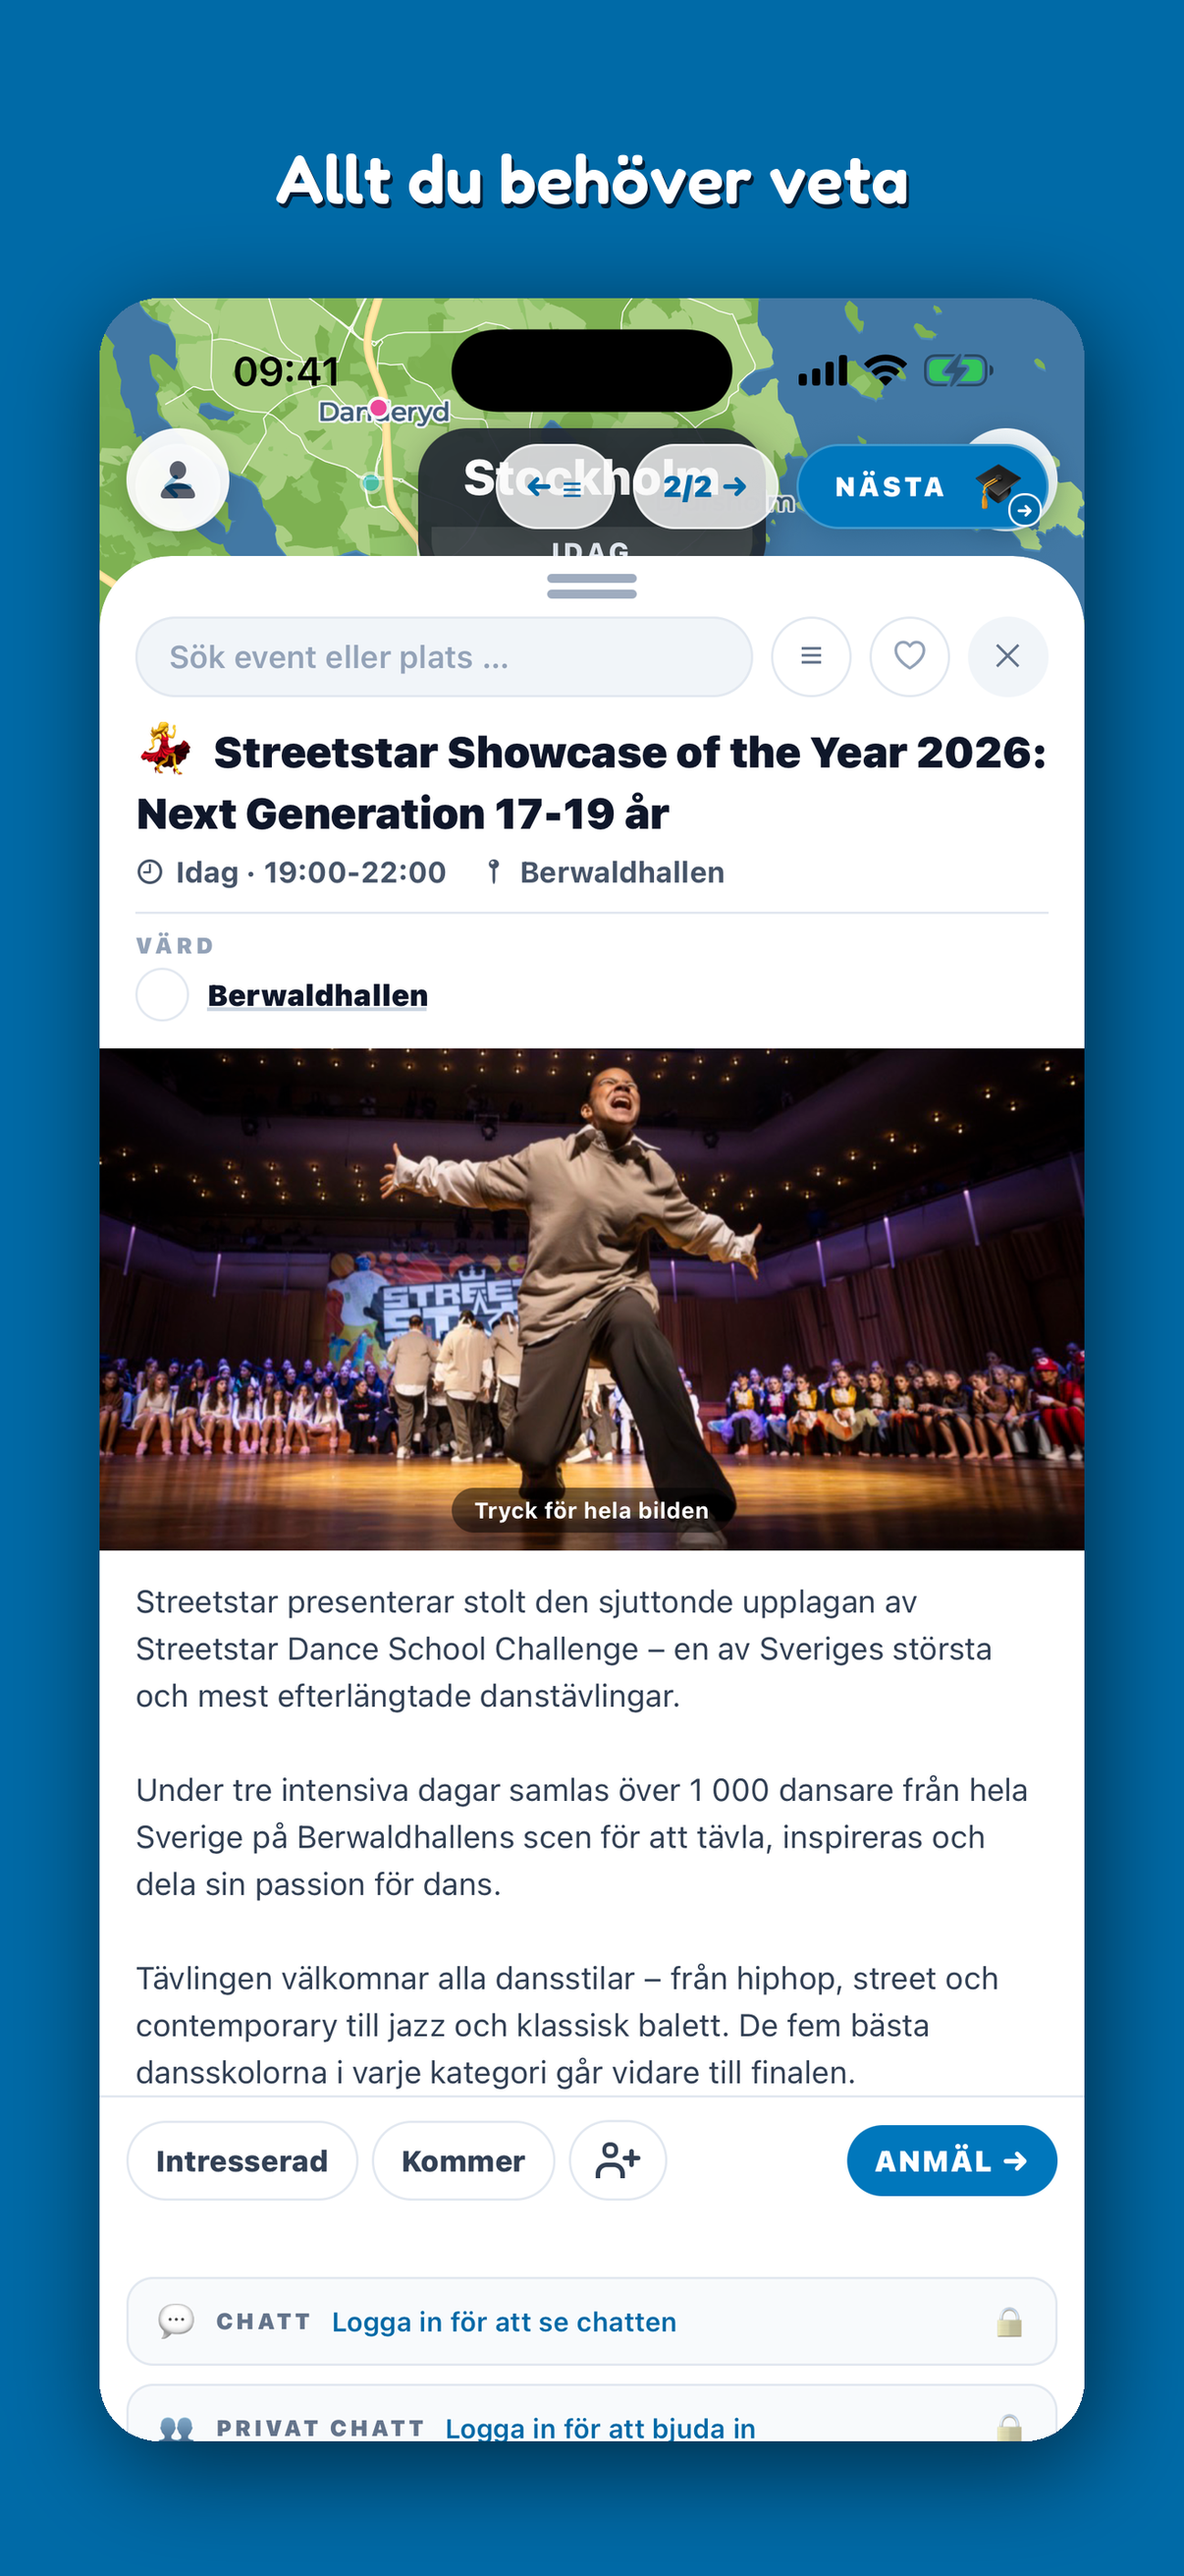
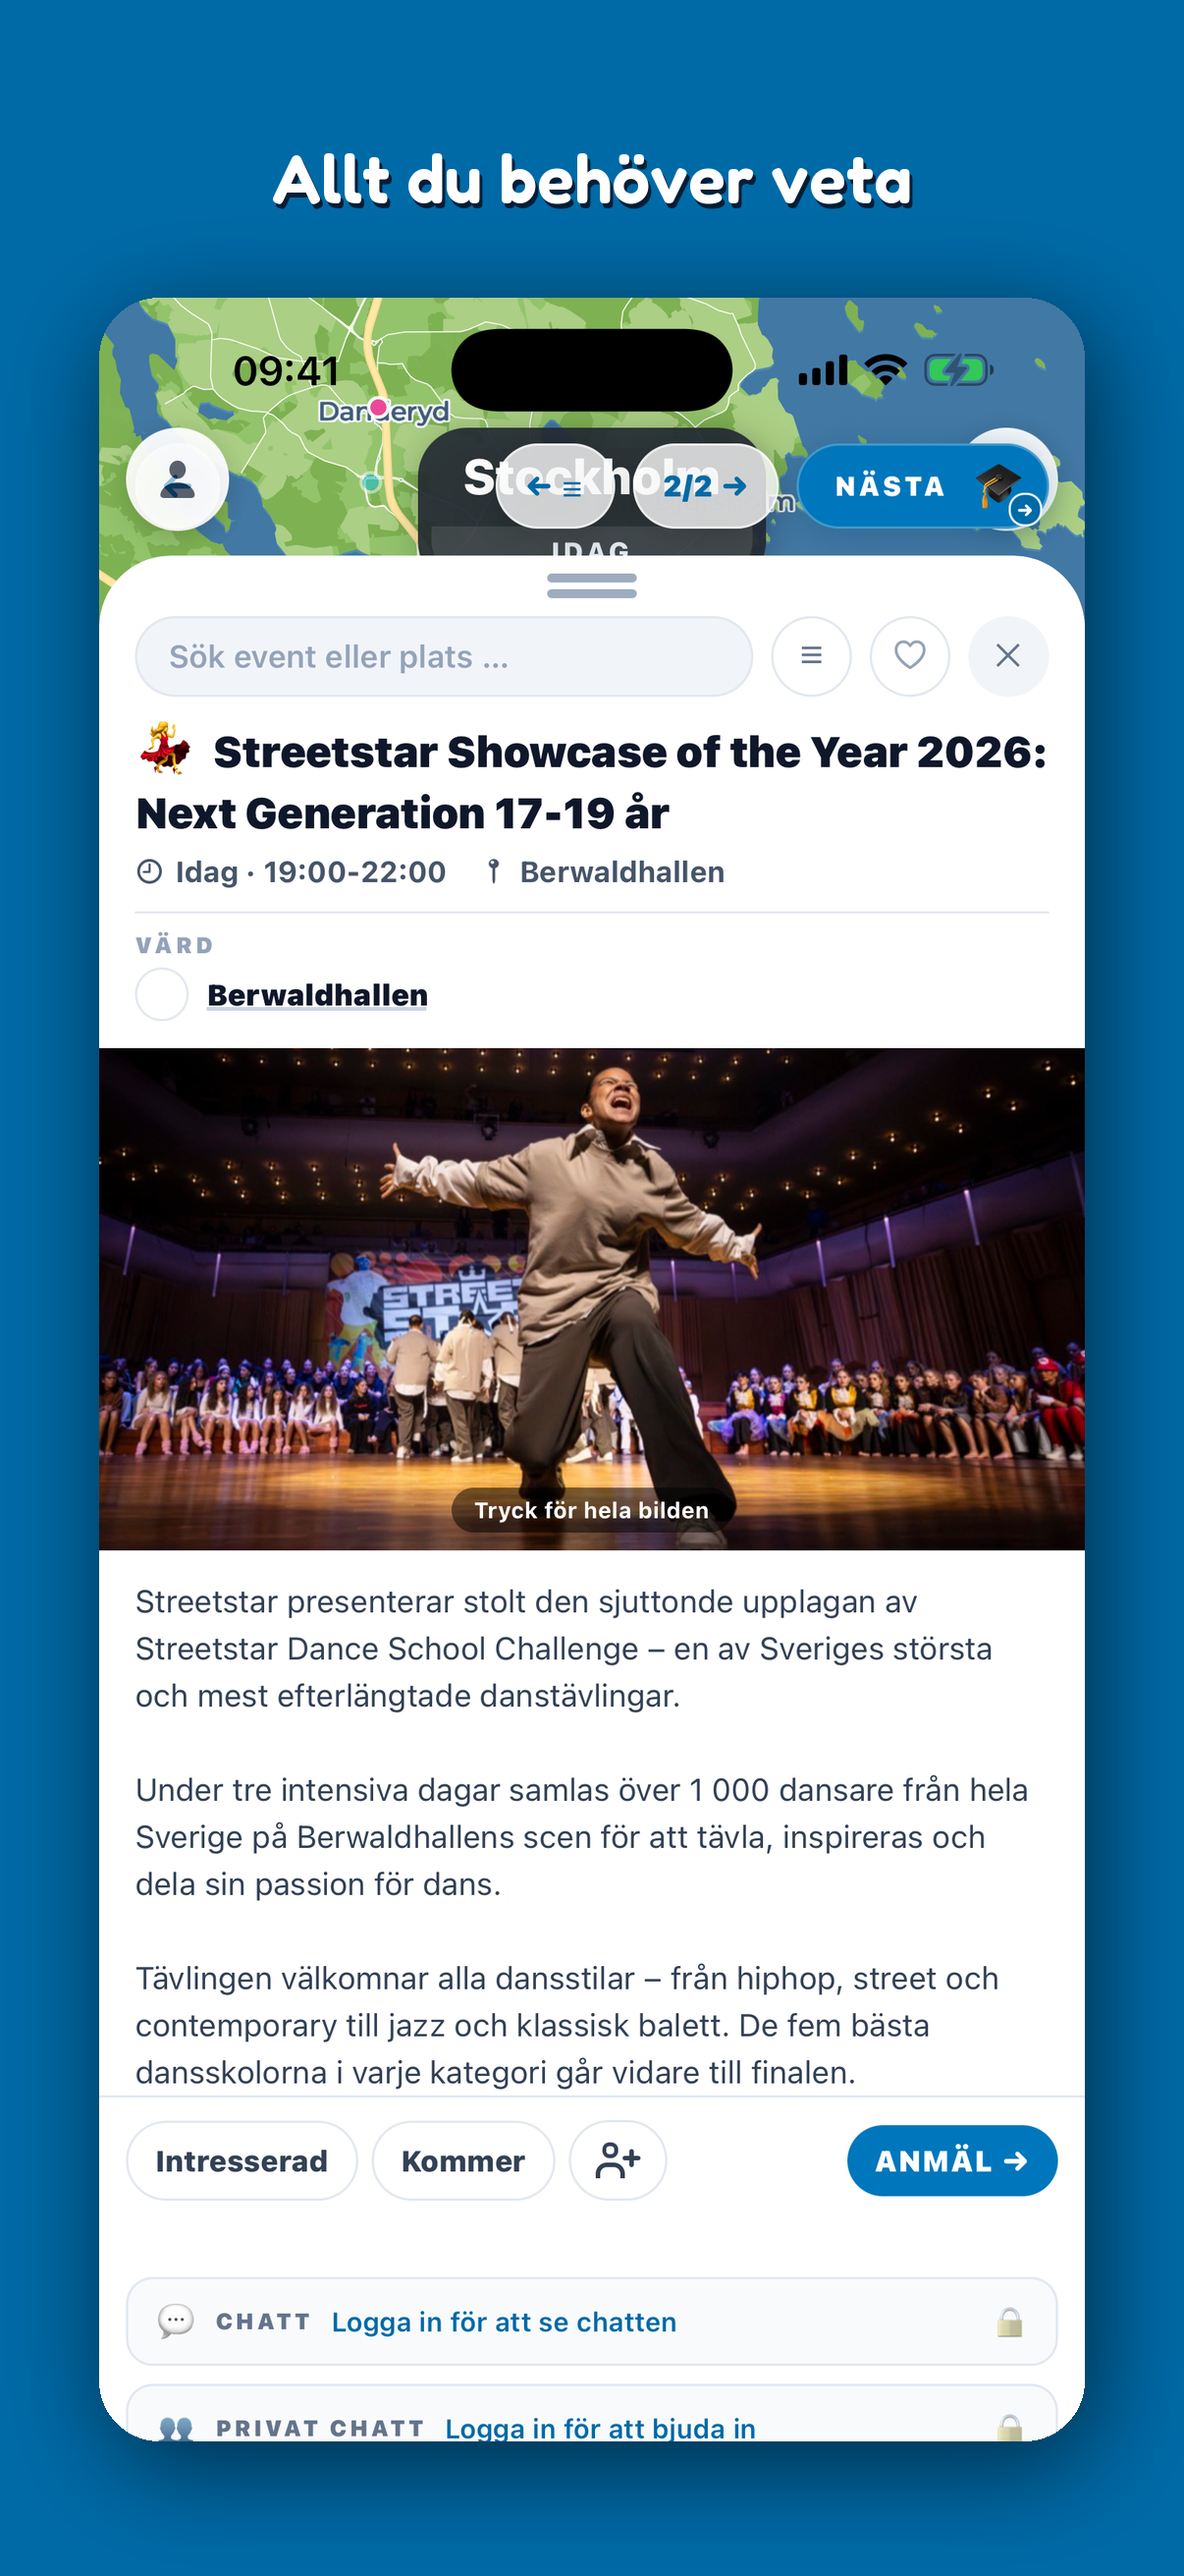
Butiksskärmbilderna i alla iPhone-mått App Store Connect tar emot
komponera.py renderar varje mått direkt med en layoutregel som ger exakt
samma play- och 6,9"-bilder som förut, och har nu rubrikerna i en tabell
(--alla). Nya mappar: 6,5", 6,1", 5,5" och 4,7". 6,3" renderas nu direkt i
stället för att skalas ner. Ingen iPad - appen är bara för iPhone.

diff --git a/docs/butik-assets/komponera.py b/docs/butik-assets/komponera.py
@@ -6,12 +6,20 @@ gick förlorat: VADKUL-blå bakgrund, titel i Fredoka SemiBold med mörkblå hå
 skugga, telefonen nedskalad med rundade hörn och en mjuk slagskugga.
 
 Användning (kör med en Python som har Pillow):
+    python3 komponera.py --alla      # alla fem bilderna i BILDER, alla mått
     python3 komponera.py ra/skarmbild-02-eventbild.png "Allt du behöver veta" 02-eventbild
 
-Skriver tre varianter:
-    play/skarmbild-<namn>.png              1320x2640 (Google Play, exakt 2:1)
-    skarmbild-<namn>.png                   1320x2868 (App Store, stor skärm)
-    app-store-mellan/skarmbild-<namn>.png  1206x2622 (App Store, mellanstor skärm)
+Skriver en variant per mått i VARIANTER (31/10, Josef: "lika bra att ha alla
+typer av screenshots tillgängliga"):
+    play/                  1320x2640 (Google Play, exakt 2:1)
+    ./                     1320x2868 (App Store 6,9" - den som krävs)
+    app-store-6-5/         1284x2778 (App Store 6,5")
+    app-store-mellan/      1206x2622 (App Store 6,3")
+    app-store-6-1/         1170x2532 (App Store 6,1")
+    app-store-5-5/         1242x2208 (App Store 5,5", hemknapps-iPhone)
+    app-store-4-7/         750x1334  (App Store 4,7", iPhone SE)
+Appen är bara för iPhone (supportsTablet saknas i app.json), så Connect har
+inga iPad-platser.
 
 Typsnittet läses ur webbens byggutdata (next/font självhostar Fredoka som
 variabel woff2). Finns inte apps/web/.next, bygg webben först eller peka
@@ -33,14 +41,43 @@ RA_STORLEK = (1320, 2868)
 # commit 84514826; 1320x2640): telefonen 993x2158 vid
 # (163,332), hörnradie 60, slagskugga förskjuten (10,24), gaussisk oskärpa 50,
 # 60 % svart. Titelns vita glyfer börjar på y=171, centrerade på x=660.
-VARIANTER = {
-    "play": dict(storlek=(1320, 2640), telefon=(163, 332, 993, 2158)),
-    "stor": dict(storlek=(1320, 2868), telefon=(111, 332, 1098, 2386)),
-}
+# Vid 1320 bredd: telefonen börjar på y=332 och slutar 150 px ovanför
+# botten, centrerad i sidled. Det ger exakt både play- och 6,9"-måtten och
+# skalas med bredden för alla andra (se layout).
+TELEFON_TOPP = 332
+TELEFON_BOTTEN = 150
 TITEL_PX = 75
 TITEL_TOPP = 171
 TITEL_SKUGGA = (3, 5)
-MELLAN = (1206, 2622)
+
+# mapp (relativt HAR, "" = roten) -> canvasmått
+VARIANTER = {
+    "play": (1320, 2640),
+    "": (1320, 2868),
+    "app-store-6-5": (1284, 2778),
+    "app-store-mellan": (1206, 2622),
+    "app-store-6-1": (1170, 2532),
+    "app-store-5-5": (1242, 2208),
+    "app-store-4-7": (750, 1334),
+}
+
+# Råbild i ra/, rubrik (29/10), namn - ordningen i butikerna.
+BILDER = [
+    ("01-karta", "Allt som händer nära dig"),
+    ("02-eventbild", "Allt du behöver veta"),
+    ("03-bildflode", "Dag för dag, hela månaden"),
+    ("04-sok", "Filtrera på det du gillar"),
+    ("05-stadssida", "Hela Sverige, stad för stad"),
+]
+
+
+def layout(storlek):
+    """Telefonens ruta (x, y, b, h) och skalan s för ett canvasmått."""
+    W, H = storlek
+    s = W / 1320
+    h = round(H - (TELEFON_TOPP + TELEFON_BOTTEN) * s)
+    b = round(h * RA_STORLEK[0] / RA_STORLEK[1])
+    return ((W - b) // 2, round(TELEFON_TOPP * s), b, h), s
 
 
 def fredoka(px: int) -> ImageFont.FreeTypeFont:
@@ -60,9 +97,9 @@ def fredoka(px: int) -> ImageFont.FreeTypeFont:
     sys.exit("Hittar ingen Fredoka-fil: bygg apps/web eller sätt FREDOKA=<sökväg>.")
 
 
-def komponera(ra: Image.Image, titel: str, storlek, telefon) -> Image.Image:
+def komponera(ra: Image.Image, titel: str, storlek) -> Image.Image:
     W, H = storlek
-    x, y, w, h = telefon
+    (x, y, w, h), s = layout(storlek)
     skala = w / RA_STORLEK[0]
     radie = round(60 * skala / (993 / 1320))
     dx, dy, oskarpa = (round(v * skala / (993 / 1320)) for v in (10, 24, 50))
@@ -80,33 +117,37 @@ def komponera(ra: Image.Image, titel: str, storlek, telefon) -> Image.Image:
     ImageDraw.Draw(mask).rounded_rectangle((0, 0, w - 1, h - 1), radie, fill=255)
     bild.paste(ra.resize((w, h), Image.LANCZOS), (x, y), mask)
 
-    font = fredoka(TITEL_PX)
+    font = fredoka(round(TITEL_PX * s))
     rita = ImageDraw.Draw(bild)
     l, t, r, b = rita.textbbox((0, 0), titel, font=font)
     tx = W / 2 - (l + r) / 2
-    ty = TITEL_TOPP - t
-    rita.text((tx + TITEL_SKUGGA[0], ty + TITEL_SKUGGA[1]), titel, font=font, fill=SKUGGFARG)
+    ty = round(TITEL_TOPP * s) - t
+    sx, sy = (max(1, round(v * s)) for v in TITEL_SKUGGA)
+    rita.text((tx + sx, ty + sy), titel, font=font, fill=SKUGGFARG)
     rita.text((tx, ty), titel, font=font, fill=(255, 255, 255))
     return bild
 
 
-def main() -> None:
-    if len(sys.argv) != 4:
-        sys.exit(__doc__)
-    ra_sokvag, titel, namn = sys.argv[1:]
+def skriv(ra_sokvag: str, titel: str, namn: str) -> None:
     ra = Image.open(ra_sokvag).convert("RGB")
     if ra.size != RA_STORLEK:
         sys.exit(f"Råbilden är {ra.size}, väntade {RA_STORLEK} (iPhone 16 Pro Max).")
+    for mapp, storlek in VARIANTER.items():
+        os.makedirs(os.path.join(HAR, mapp), exist_ok=True)
+        komponera(ra, titel, storlek).save(
+            os.path.join(HAR, mapp, f"skarmbild-{namn}.png"), optimize=True
+        )
+    print(f"skrev skarmbild-{namn}.png i {len(VARIANTER)} mått")
 
-    play = komponera(ra, titel, **VARIANTER["play"])
-    play.save(os.path.join(HAR, "play", f"skarmbild-{namn}.png"), optimize=True)
 
-    stor = komponera(ra, titel, **VARIANTER["stor"])
-    stor.save(os.path.join(HAR, f"skarmbild-{namn}.png"), optimize=True)
-    stor.resize(MELLAN, Image.LANCZOS).save(
-        os.path.join(HAR, "app-store-mellan", f"skarmbild-{namn}.png"), optimize=True
-    )
-    print(f"skrev play/, ./ och app-store-mellan/skarmbild-{namn}.png")
+def main() -> None:
+    if sys.argv[1:] == ["--alla"]:
+        for namn, titel in BILDER:
+            skriv(os.path.join(HAR, "ra", f"skarmbild-{namn}.png"), titel, namn)
+        return
+    if len(sys.argv) != 4:
+        sys.exit(__doc__)
+    skriv(*sys.argv[1:])
 
 
 if __name__ == "__main__":

diff --git a/docs/google-play-butik.md b/docs/google-play-butik.md
@@ -48,8 +48,8 @@ _(Skillnad mot App Store-beskrivningen: "eller Apple" borttaget ur kontomeningen
 - Appikon 512x512: `play-ikon-512.png` (platt blå bakgrund, ingen alfa)
 - Funktionsbild 1024x500: `play-feature-grafik-1024x500.png`
 - Skärmbilder till Play: `play/skarmbild-*.png` (1320x2640 = exakt 2:1, Plays tak; komponerade presentationsbilder med rubrik på blå platta)
-- Kompositionsskript: `komponera.py` (Pillow; `python3 komponera.py ra/<råbild>.png "<titel>" <namn>` skriver alla tre varianterna)
-- Skärmbilder till App Store: `skarmbild-*.png` (1320x2868, "iPhone med Dynamic Island (stor skärm)") och `app-store-mellan/skarmbild-*.png` (1206x2622, "iPhone med Dynamic Island (mellanstor skärm)" - den storleken KRÄVS av Connect sedan hösten 2026) - samma kompositioner i iOS-måtten
+- Kompositionsskript: `komponera.py` (Pillow; `python3 komponera.py --alla` gör om alla fem med rubrikerna i skriptets BILDER-tabell, `python3 komponera.py ra/<råbild>.png "<titel>" <namn>` en bild - alltid i alla mått)
+- Skärmbilder till App Store, samma kompositioner i varje iPhone-mått Connect tar emot (31/10, Josef: "lika bra att ha alla typer av screenshots tillgängliga"): `skarmbild-*.png` 1320x2868 (6,9", "iPhone med Dynamic Island (stor skärm)" - den som KRÄVS), `app-store-6-5/` 1284x2778 (6,5"), `app-store-mellan/` 1206x2622 (6,3", "mellanstor skärm"), `app-store-6-1/` 1170x2532 (6,1"), `app-store-5-5/` 1242x2208 (5,5", hemknapps-iPhone) och `app-store-4-7/` 750x1334 (4,7", iPhone SE). Varje mått renderas direkt (inte nedskalat). Ingen iPad: appen är bara för iPhone (supportsTablet saknas i app.json)
 - Råa simulatordumpar som underlag: `ra/skarmbild-*.png` (laddas inte upp). Alla fem togs om 29/10 med appens nya utseende (systemsymboler för tid/plats/profil, ingen dev-bubbla i bild - ingen retusch behövs); de retuscherade 12-13/10-originalen ligger i c4cd8162
 
 ---
